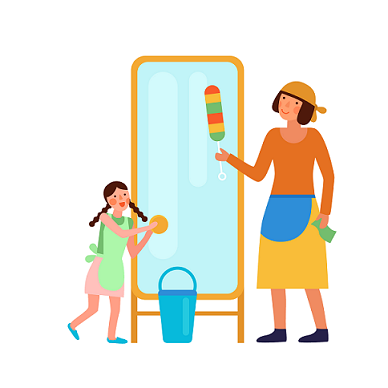
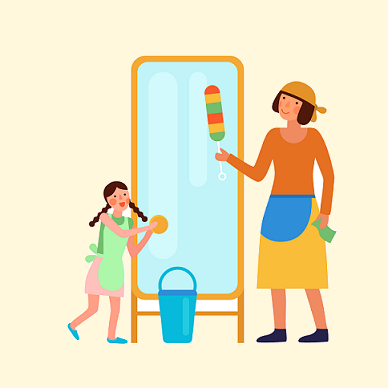
Formtted documents, included additional logic for logging in and worked on styling

diff --git a/Develop/client/src/pages/Mychores.js b/Develop/client/src/pages/Mychores.js
@@ -5,29 +5,54 @@ import Headline from "../components/headline";
 import Chorelist from "../components/searchchorelist";
 import styled from "styled-components";
 
-// background: #fff8dc;
+const Wrapper = styled.section`
+  padding: none;
+  background: #fff8dc;
+`;
 const Picture = styled.picture`
   display: inline-block;
-  background: white;
+  background: #fff8dc;
   padding: 1em;
 `;
-
+const FlexBox = styled.div`
+  display: flex;
+  flex-direction: row;
+  flex-wrap: wrap;
+  align-items: center;
+  border: none;
+  justify-content: space-evenly;
+  align-itmes: stretch;
+`;
 const MyChores = () => {
   return (
     <div>
-      <Headline {...Headline} />
-      <Picture>
-        <source srcSet="/childpage_kid.png" type="image/svg+xml"></source>
-        <img
-          src="/public/childpage_kid.png"
-          className=" img-homepage"
-          alt="cleaning_chores"
-        ></img>
-      </Picture>
-      {/* <Chorelist
-        {...Chorelist}
-        /> */}
-      <Baseline {...Baseline} />
+      <Wrapper>
+        <Headline {...Headline}></Headline>
+
+        <FlexBox>
+          <Picture>
+            <source srcSet="/childpage_kid.png" type="image/svg+xml"></source>
+            <img
+              src="/public/childpage_kid.png"
+              className=" img-homepage"
+              alt="cleaning_chores"
+            ></img>
+          </Picture>
+          <Picture>
+            <source srcSet="/Construction.png" type="image/svg+xml"></source>
+            <img
+              src="/public/Construction.png"
+              className=" img-homepage"
+              alt="Under Construction"
+            ></img>
+          </Picture>
+          {/* <Chorelist
+            {...Chorelist}
+            /> */}
+        </FlexBox>
+
+        <Baseline {...Baseline} />
+      </Wrapper>
     </div>
   );
 };

diff --git a/Develop/client/src/pages/parentchores.js b/Develop/client/src/pages/parentchores.js
@@ -16,14 +16,25 @@ const Wrapper = styled.section`
 const Picture = styled.picture`
   display: inline-block;
   background: white;
-  padding: 1em;
+  padding: none;
+`;
+const FlexBox = styled.div`
+display: flex;
+flex-direction: row;
+flex-wrap: wrap;
+align-items: center;
+border: none;
+justify-content: space-evenly;
+align-itmes: stretch;
 `;
 
 // Use Title and Wrapper like any other React component – except they're styled!
 export default function Parentchores() {
   return (
     <div>
+      <Wrapper>
       <Headline />
+      <FlexBox>
       <Picture>
         <source srcSet="/main_page_bg01.png" type="image/svg+xml"></source>
         <img
@@ -32,9 +43,20 @@ export default function Parentchores() {
           alt="cleaning_chores"
         ></img>
       </Picture>
+      <Picture>
+      <source srcSet="/Construction.png" type="image/svg+xml"></source>
+        <img
+          src="/public/Construction.png"
+          className=" img-homepage"
+          alt="Under Construction"
+        ></img>
+      </Picture>
+      </FlexBox>
       <Addchildbtn />
       <Addchorebtn />
       {/* <FindChildren /> */}
+     
+    </Wrapper>
     </div>
   );
 }

diff --git a/Develop/client/src/pages/Home.js b/Develop/client/src/pages/Home.js
@@ -10,15 +10,28 @@ padding: 1.0em;
 max-width: 300px;
 max-height 300px:
 `;
-
+const Wrapper = styled.section`
+  padding: 0.5em;
+  background: #fff8dc;
+`;
+const FlexBox = styled.div`
+  display: flex;
+  flex-direction: row;
+  flex-wrap: wrap;
+  align-items: center;
+  border: none;
+  justify-content: space-evenly;
+  
+`;
 const Home = () => {
   return (
-    <div>
+    <Wrapper>
       <div>
         <Headline {...Headline} />
       </div>
       <Registerbtn />
       <LoginForm />
+      <FlexBox>
       <Picture>
         <source srcSet="/main_page_bg01.png" type="image/svg+xml"></source>
         <img
@@ -51,7 +64,8 @@ const Home = () => {
           alt="bin_chores"
         ></img>
       </Picture>
-    </div>
+      </FlexBox>
+    </Wrapper>
   );
 };
 

diff --git a/Develop/client/src/components/addchores.js b/Develop/client/src/components/addchores.js
@@ -55,6 +55,16 @@ const Text = styled.p`
   font-size: 1em;
 `;
 
+const FlexBox = styled.div`
+  display: flex;
+  flex-direction: row;
+  flex-wrap: wrap;
+  align-items: center;
+  border: none;
+  justify-content: space-evenly;
+  align-itmes: stretch;
+`;
+
 const AddChore = () => {
   const [formState, setFormState] = useState({
     name: "",
@@ -122,6 +132,7 @@ const AddChore = () => {
   return (
     <Wrapper>
       <Headline></Headline>
+      <FlexBox>
       {data ? (
         <Text>
           Success! You may now head{" "}
@@ -178,6 +189,7 @@ const AddChore = () => {
       {error && (
         <div className="my-3 p-3 bg-danger text-white">{error.message}</div>
       )}
+      </FlexBox>
     </Wrapper>
   );
 };

diff --git a/Develop/client/src/components/addchild.js b/Develop/client/src/components/addchild.js
@@ -55,6 +55,15 @@ const Text = styled.p`
   margin: 0.2rem 0.2rem;
 `;
 
+const FlexBox = styled.div`
+  display: flex;
+  flex-direction: row;
+  flex-wrap: wrap;
+  align-items: center;
+  border: none;
+  justify-content: space-evenly;
+  align-itmes: stretch;
+`;
 const AddChild = () =>
 {
   const [formState, setFormState] = useState({

diff --git a/Develop/client/src/App.jsx b/Develop/client/src/App.jsx
@@ -71,6 +71,7 @@ function App() {
                       <Route path="*" element={<NoMatch />} />
                     </Routes>
                   </div>
+                  
                 </ChildProvider>
               </ParentProvider>
             </StoreProvider>

diff --git a/Develop/client/src/index.tsx b/Develop/client/src/index.tsx
@@ -6,6 +6,7 @@ import reportWebVitals from './reportWebVitals';
 import * as serviceWorker from './serviceWorker';
 
 
+
 const root = ReactDOM.createRoot(document.getElementById('root'));
 root.render(
   

diff --git a/Develop/client/src/components/baseline.js b/Develop/client/src/components/baseline.js
@@ -5,7 +5,7 @@ import Donatebtn from "./donatebtn";
 import Backbtn from "./backbtn";
 
 const Wrapper = styled.section`
-  padding: 0.5em;
+  padding: none;
   background: #fff8dc;
 `;
 

diff --git a/Develop/client/src/index.css b/Develop/client/src/index.css
@@ -13,5 +13,5 @@ code {
 }
 
 background {
-  background: #FFF8DC;
+  background: #fff8dc
 }

diff --git a/Develop/client/src/components/backbtn.js b/Develop/client/src/components/backbtn.js
@@ -31,3 +31,5 @@ function Backbtn() {
 }
 
 export default Backbtn;
+
+
